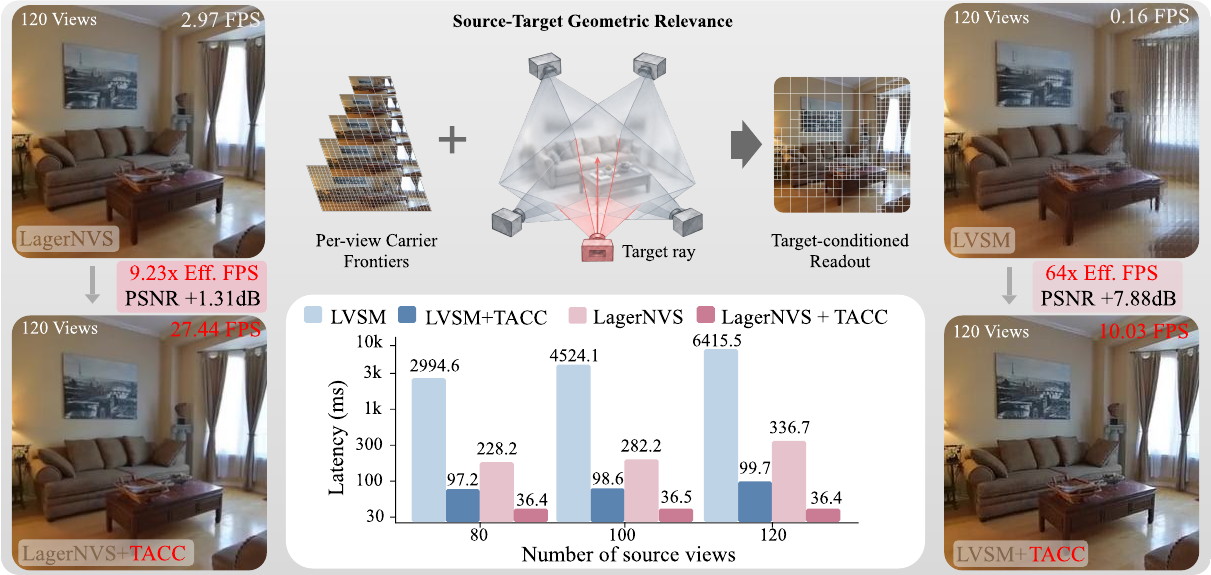
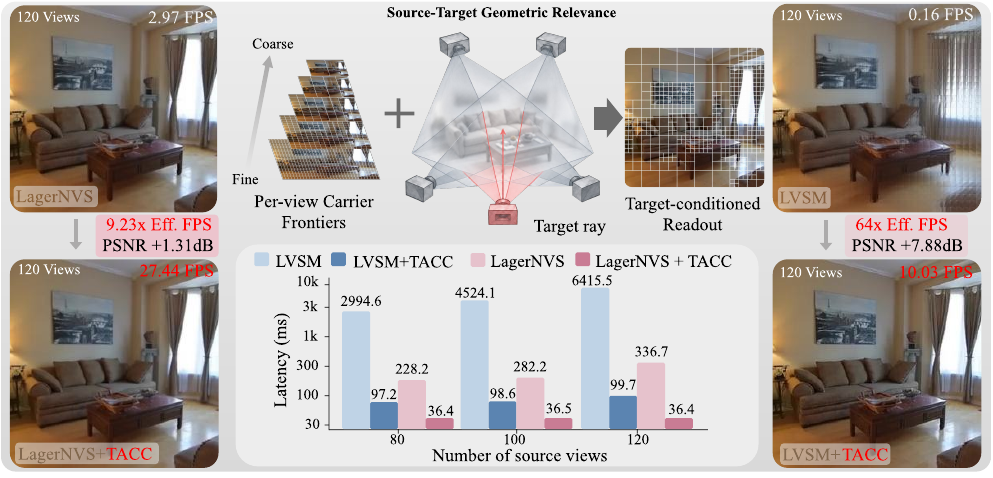
Sync project page with latest paper figures

diff --git a/index.html b/index.html
@@ -3,14 +3,14 @@
   <head>
     <meta charset="utf-8" />
     <meta name="viewport" content="width=device-width, initial-scale=1" />
-    <meta name="description" content="TACC: Target-Aware Carrier Compression for Scalable Novel View Synthesis. Anonymous project page." />
+    <meta name="description" content="TACC: Target-Aware Carrier Compression for Dense-Context Novel View Synthesis. Anonymous project page." />
     <title>TACC: Target-Aware Carrier Compression</title>
     <link rel="stylesheet" href="./styles.css" />
   </head>
   <body>
     <header class="jumbotron">
       <div class="hero-content">
-        <h1><span class="accent">TACC:</span> <span class="accent-blue">Target-Aware Carrier Compression</span> for<br /><span class="accent-pink">Scalable</span> Novel View Synthesis</h1>
+        <h1><span class="accent">TACC:</span> <span class="accent-blue">Target-Aware Carrier Compression</span> for<br /><span class="accent-pink">Dense-Context</span> Novel View Synthesis</h1>
         <hr />
         <p class="authors">Anonymous authors</p>
         <p class="affiliation">Paper under double-blind review</p>
@@ -24,16 +24,16 @@
     <main class="page-content">
       <section id="tldr" class="paper-section">
         <h2>TL;DR</h2>
-        <p>TACC decouples reusable source-side Carrier organization from target-conditioned evidence allocation for scalable feed-forward latent novel view synthesis.</p>
+        <p>TACC organizes dense source context once, then allocates a fixed decoder-visible budget to target-relevant evidence for each requested view.</p>
         <figure class="project-figure">
           <img src="./assets/tacc-figure1.png" alt="TACC teaser showing target-aware Carrier readout and target-time scaling on LagerNVS and LVSM" />
-          <figcaption><strong>Figure 1:</strong> TACC organizes source representations into reusable per-view Carrier frontiers and performs target-aware readout under a fixed decoder-visible budget once the target becomes available. Across LagerNVS and LVSM, TACC maintains efficient target-time rendering as the number of source views increases, achieving 9.23× and 64× higher Effective FPS at 120 views, respectively. Speedups are computed from unrounded target-time latency.</figcaption>
+          <figcaption><strong>Figure 1:</strong> TACC organizes source representations into reusable per-view Carrier frontiers and performs target-aware readout under a fixed decoder-visible budget once the target becomes available. Across LagerNVS and LVSM on RE10K, TACC maintains efficient target-time rendering as the number of source views increases, achieving 9.23× and 64× higher Effective FPS at 120 views, respectively. Speedups are computed from unrounded target-time latency.</figcaption>
         </figure>
       </section>
 
       <section id="abstract" class="paper-section">
         <h2>Abstract</h2>
-        <p>Feed-forward latent novel view synthesis (NVS) has recently emerged as a promising paradigm for direct inference from source images without per-scene optimization. However, its scalability is constrained by the growing scene-token context, which increases rendering latency and memory consumption as the number of source views grows. A natural solution is to compress the source context under a fixed rendering budget. Yet allocating this budget before the target camera is known is inherently target agnostic, even though different target views may rely on different source evidence. In this work, we introduce TACC, a target-aware compression framework that decouples reusable source-side organization from target-conditioned evidence allocation. TACC organizes each source view into a progressive Carrier hierarchy and, at target time, allocates a fixed token budget based on source-target geometric relevance to read the corresponding frontiers. The resulting tokens form a compact target-conditioned representation. Only the Carrier module is trained, while the pretrained NVS backbone remains frozen. Experiments spanning three NVS backbones and two datasets show that TACC consistently improves reconstruction quality over matched-budget compression baselines while maintaining stable target-time throughput as the number of source views increases, and achieves up to 64× higher target-time Effective FPS than frozen Full Context inference at 120 source views.</p>
+        <p>Feed-forward latent novel view synthesis (NVS) has recently emerged as a promising paradigm for direct inference from source images without per-scene optimization. However, increasing the number of source views enlarges the scene-token context, raising rendering latency and memory consumption. A natural solution is to compress the source context under a fixed rendering budget. Yet allocating this budget before the target camera is known is inherently target agnostic, even though different target views may rely on different source evidence. In this work, we introduce TACC, a target-aware compression module for dense-context latent NVS. TACC organizes each source view into a reusable progressive Carrier hierarchy and, at target time, assigns exact integer quotas to source views under a fixed decoder-visible token budget based on source-target geometric relevance. It then reads the corresponding spatially covering frontiers to form a compact target-conditioned representation. On RE10K with 120 source views, integrating TACC into LagerNVS and LVSM Decoder-Only yields 9.23× and 64× higher target-time throughput, respectively, compared with their uncompressed counterparts.</p>
       </section>
 
       <section id="method" class="paper-section">
@@ -160,14 +160,14 @@
           <img src="./assets/tacc-figure5-efficiency-e2e.png" alt="LVSM peak GPU memory and renderer latency across increasing input views, together with LagerNVS end-to-end throughput across increasing target views" />
           <figcaption><strong>Figure 5:</strong> <strong>Efficiency and amortized E2E throughput.</strong> LVSM peak GPU memory (left) and renderer latency (center) on RE10K across 15–120 source views; LagerNVS E2E FPS (right) on DL3DV with 80 source views and increasing target counts.</figcaption>
         </figure>
-        <p>TACC changes how inference scales with dense context. Under LVSM Decoder-Only, its fixed <em>A</em> = 10 readout keeps renderer latency nearly independent of the number of source views and limits memory growth, while Full Context becomes progressively more expensive. At 120 views, peak allocated memory falls from 12.77 to 4.22 GiB, a 66.96% reduction. The reusable source-side hierarchy also amortizes across targets: although its one-time construction cost makes TACC slightly slower at 10 targets, it overtakes Full Context by 40 targets and reaches a 1.98× E2E throughput gain at 100. These trends show that TACC improves the scaling behavior of the frozen backbone rather than merely reducing a single-stage runtime.</p>
+        <p>With LVSM Decoder-Only, Full Context incurs increasing renderer latency and peak allocated GPU memory as the source context grows, whereas TACC keeps renderer latency nearly constant and slows memory growth through its fixed <em>A</em> = 10 decoder-visible budget. At 120 source views, TACC reduces peak allocated memory from 12.77 to 4.22 GiB, a 66.96% reduction. The LagerNVS end-to-end results show the complementary amortization behavior: TACC is slightly slower at 10 target views because Carrier construction is paid once per source set, surpasses Full Context by 40 targets, and reaches a 1.98× throughput gain at 100 targets.</p>
 
         <h3>Dense-Context Scaling with LVSM Decoder-Only</h3>
         <figure class="project-figure scaling-figure">
           <img src="./assets/tacc-figure7-lvsm-scaling.png" alt="PSNR and Effective FPS of Full Context and TACC as the number of source views increases from 15 to 120" />
           <figcaption><strong>Figure 7:</strong> <strong>LVSM Decoder-Only with increasing source views.</strong> PSNR (left) and Effective FPS (right) on RE10K across 15–120 source views. TACC uses a fixed <em>A</em> = 10 decoder-visible budget, whereas Full Context processes all selected source tokens.</figcaption>
         </figure>
-        <p>A fixed decoder-visible budget allows TACC to benefit from additional observations without exposing the renderer to an ever-growing token sequence. Reconstruction quality rises through 40 source views and then remains close to 30 dB, while Effective FPS stays near 10 across the full range. The frozen Full Context model follows the opposite trend: both quality and throughput decline as its input expands. This regime is deliberately demanding—LVSM is pretrained with two source views, whereas the 120-view setting presents 60× more views and 122,880 source patch tokens. The comparison therefore tests robustness to dense-context shift in the frozen backbone and indicates that more observations become useful when target-relevant evidence is allocated selectively.</p>
+        <p>TACC's reconstruction quality increases up to 40 source views and remains nearly stable thereafter, with little variation in Effective FPS. In contrast, the frozen Full Context model loses both reconstruction quality and target-time throughput as its source context grows. At 120 views, TACC reaches 30.14 dB PSNR versus 22.26 dB for Full Context while maintaining the fixed decoder-visible budget. This setting is a substantial shift from LVSM's two-view pretraining regime: the 120-view evaluation uses 60× more source views and exposes 122,880 source patch tokens at 256 × 256 resolution. The comparison therefore measures the frozen backbone under dense source input rather than a model retrained for long contexts.</p>
       </section>
 
       <section id="resources" class="paper-section resources-section">
